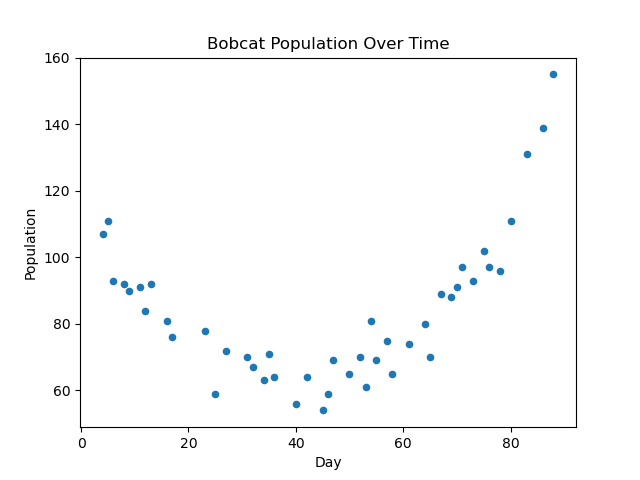
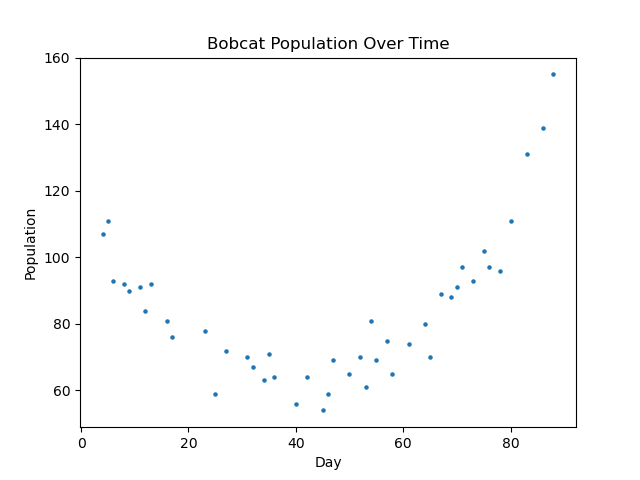
Updated

diff --git a/src/main.py b/src/main.py
@@ -1,0 +1,84 @@
+"""" 
+Author: AXEL MUNIZ TELLO, LEANDRO OUVERNY, RYAN HSIAO
+Date: 03/25/2025
+Description: This script will be used to simulate the population dynamics of bobcats and rabbits using the Lotka-Volterra model
+             for the applied mathematics challenge at UC Merced (2025)
+Note: Please refer to the README.md file for more information on the project and the workings of the code.
+"""
+# Imported Libraries: 
+import numpy as np
+import pandas as pd
+import os 
+import matplotlib.pyplot as plt
+from scipy.interpolate import interp1d
+from scipy.integrate import solve_ivp
+
+if not os.path.exists('plots'):
+    os.makedirs('plots')
+    
+
+def predator_prey (t, z, a, b, c, d):
+    x,y = z
+    dxdt = a*x - b*x*y
+    dydt = d*x*y - c*y
+    return [dxdt, dydt]
+    
+# Loaded Data for Bobcat and Rabbit Populations:
+bobcat_data = pd.read_csv('data/bobcatData.csv')
+rabbit_data = pd.read_csv('data/rabbitData.csv')
+
+# Clean Data:
+rabbit_data.columns = ['Day', 'Rabbits']
+bobcat_data.columns = ['Day', 'Bobcats']
+
+# Extract Data from Columns:
+t_rabbit = rabbit_data['Day'].values
+t_bobcat = bobcat_data['Day'].values
+x_values = rabbit_data['Rabbits'].values
+y_values = bobcat_data['Bobcats'].values
+
+# Plot for Rabbit Population Over Time:
+rabbit_data.plot(s=5, x='Day', y='Rabbits', kind='scatter') 
+plt.title('Rabbit Population Over Time') 
+plt.xlabel('Day')
+plt.ylabel('Population')
+plt.savefig('plots/rabbit_population_plot.png')
+plt.show()
+
+# Plot for Bobcat Population Over Time:
+bobcat_data.plot(s = 5, x='Day', y='Bobcats', kind='scatter')  
+plt.title('Bobcat Population Over Time')
+plt.xlabel('Day')
+plt.ylabel('Population')
+plt.savefig('plots/bobcat_population_plot.png') 
+plt.show()
+
+######-BEGINNING OF METHOD-######
+"""
+In order to be able to solve these ODEs we we are going to need more data points. However, we 
+are going to need to interpolate the data points we currently have in order to get more data points
+that we can work with. 
+"""
+# Interpolation:
+# Create a common time grid (ex) 90 days evenly spaced)
+t_min = max(t_rabbit.min(), t_bobcat.min())
+t_max = min(t_rabbit.max(), t_bobcat.max())
+t_common = np.linspace(t_min, t_max, 200)
+
+# Interpolate both datasets onto common time grid
+interp_rabbit = interp1d(t_rabbit, x_values, kind='linear', fill_value='extrapolate')
+interp_bobcat = interp1d(t_bobcat, y_values, kind='linear', fill_value='extrapolate')
+
+x_interp = interp_rabbit(t_common)
+y_interp = interp_bobcat(t_common)
+
+# Plot for Interpolated Rabbit Population:
+plt.plot(t_common, x_interp, label='Interpolated Rabbits')
+plt.plot(t_common, y_interp, label='Interpolated Bobcats')
+plt.title("Interpolated Populations")
+plt.xlabel("Day")
+plt.ylabel("Population")
+plt.legend()
+plt.grid(True)
+plt.savefig("plots/interpolated_data.png")
+plt.show()
